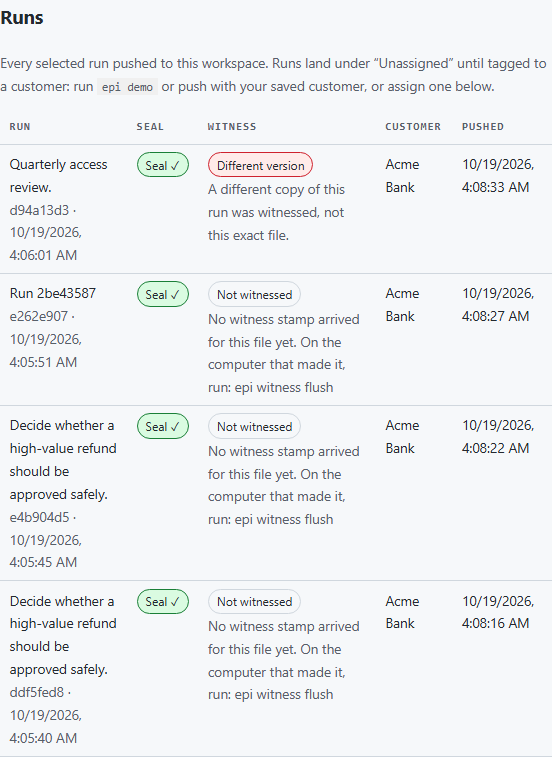
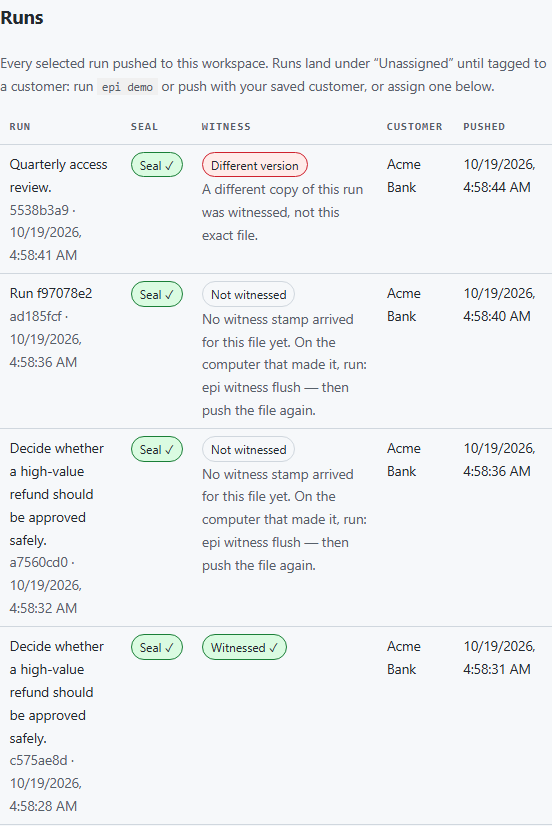
Review fixes: never downgrade witnessed, push-again hint, dark mode, lenient re-push
1. Re-push refresh never downgrades: a stored 'witnessed' verdict is kept when the re-check cannot reach an inbox (test: close inbox, re-push, stays witnessed). 2. 'Not witnessed' hint now ends 'run: epi witness flush - then push the file again' (re-push really refreshes the badge; covered by the refresh test). 3. Dashboard gets a prefers-color-scheme dark theme; after-dark screenshots are genuinely dark. 4. Re-push with an unknown customer name keeps working (200, tag unchanged); unknown names still 400 on first push. 5. Reverts the accidentally committed docs/dashboard-v2/05-dashboard.png. 6. Trust page shows one line for different_version (the red 'Needs review' line stays). Mirrors re-synced (site, verify_portal).

diff --git a/cloud/test/artifacts.test.ts b/cloud/test/artifacts.test.ts
@@ -275,6 +275,15 @@ class FakeD1 {
       for (const r of this.artifacts.values()) if (r.id === a[1]) r.deleted_at = a[0];
       return 1;
     }
+    if (q.startsWith("UPDATE inboxes SET closed_at")) {
+      for (const i of this.inboxes.values()) {
+        if (i.id === a[1] && i.org_id === a[2] && i.closed_at == null) {
+          i.closed_at = a[0];
+          return 1;
+        }
+      }
+      return 0;
+    }
     if (q.startsWith("INSERT INTO agents")) {
       this.agents.set(a[0] as string, { id: a[0], org_id: a[1], name: a[2], status: "active", created_at: a[3] });
       return 1;
@@ -461,6 +470,36 @@ describe("push flow", () => {
     const second = (await (await app.request("/v1/orgs/o1/artifacts/init", { method: "POST", headers: key, body: JSON.stringify(initBody()) }, env as never)).json()) as { id: string; deduped: boolean; witness_status: string };
     expect(second).toMatchObject({ id: first.id, deduped: true, witness_status: "witnessed" });
     expect(db.audit.map((a) => a.action)).toContain("artifact.refresh");
+  });
+
+  it("re-push never downgrades a witnessed run when the inbox is unreachable", async () => {
+    const { db, env, key, ck } = await setup();
+    const stub = (env.WITNESS as unknown as FakeInboxNS).get((env.WITNESS as unknown as FakeInboxNS).idFromName("inb_1"));
+    const manifest = JSON.parse(FIXTURE_MANIFEST) as { workflow_id: string };
+    await stub.fetch("https://inbox/append", {
+      method: "POST", headers: { "Content-Type": "application/json" },
+      body: JSON.stringify({ payload_raw: JSON.stringify({ schema: "epi-witness/v1", type: "epi.sealed", workflow_id: manifest.workflow_id, file_sha256: FILE_SHA }) }),
+    });
+    const first = (await (await app.request("/v1/orgs/o1/artifacts/init", { method: "POST", headers: key, body: JSON.stringify(initBody()) }, env as never)).json()) as { id: string; witness_status: string };
+    expect(first.witness_status).toBe("witnessed");
+    // The inbox closes (or the fetch fails): a re-check reads "not found".
+    // The stored "witnessed" verdict must survive the re-push.
+    const closed = await app.request("/v1/orgs/o1/inboxes/inb_1/close", { method: "POST", headers: ck("sess-owner") }, env as never);
+    expect(closed.status).toBe(200);
+    const second = (await (await app.request("/v1/orgs/o1/artifacts/init", { method: "POST", headers: key, body: JSON.stringify(initBody()) }, env as never)).json()) as { id: string; deduped: boolean; witness_status: string };
+    expect(second).toMatchObject({ id: first.id, deduped: true, witness_status: "witnessed" });
+    expect([...db.artifacts.values()].find((a) => a.id === first.id)!.witness_status).toBe("witnessed");
+  });
+
+  it("re-push with an unknown customer name keeps working and keeps the tag", async () => {
+    const { db, env, key } = await setup();
+    const first = (await (await app.request("/v1/orgs/o1/artifacts/init", { method: "POST", headers: key, body: JSON.stringify(initBody()) }, env as never)).json()) as { id: string; agent: string | null };
+    expect(first.agent).toBe("loans");
+    const second = await app.request("/v1/orgs/o1/artifacts/init", { method: "POST", headers: key, body: JSON.stringify(initBody({ agent: "ghost" })) }, env as never);
+    expect(second.status).toBe(200);
+    const body = (await second.json()) as { id: string; deduped: boolean; agent: string | null };
+    expect(body).toMatchObject({ id: first.id, deduped: true, agent: "loans" });
+    expect([...db.artifacts.values()].find((a) => a.id === first.id)!.agent_id).toBe("g1");
   });
 
   it("dedupes, rejects double-store and length lies", async () => {

diff --git a/cloud/src/routes/artifacts.ts b/cloud/src/routes/artifacts.ts
@@ -117,13 +117,6 @@ app.post("/orgs/:orgId/artifacts/init", async (c) => {
   const fileCount = await c.env.DB.prepare("SELECT COUNT(*) AS n FROM artifacts WHERE org_id = ? AND deleted_at IS NULL").bind(orgId).first<{ n: number }>();
   const room = limitAllows(plan, "evidenceFiles", fileCount?.n ?? 0);
 
-  let agentId: string | null = null;
-  if (body.data.agent) {
-    const agent = await c.env.DB.prepare("SELECT id FROM agents WHERE org_id = ? AND name = ?").bind(orgId, body.data.agent).first<{ id: string }>();
-    if (!agent) return c.json({ error: { code: "bad_request", message: `Unknown agent ${body.data.agent}.` } }, 400);
-    agentId = agent.id;
-  }
-
   const dupe = await c.env.DB.prepare("SELECT id, agent_id, manifest_json, upload_state, witness_status, signature_check FROM artifacts WHERE org_id = ? AND claimed_sha256 = ?")
     .bind(orgId, body.data.claimed_sha256).first<{ id: string; agent_id: string | null; manifest_json: string; upload_state: string; witness_status: string; signature_check: string }>();
   if (dupe) {
@@ -131,7 +124,16 @@ app.post("/orgs/:orgId/artifacts/init", async (c) => {
     // report may have arrived since the first push) and fill in the customer
     // tag only when the stored run has none. An existing tag is never
     // replaced — moving a run between customers would leak it onto another
-    // customer's reviewer link.
+    // customer's reviewer link. An unknown customer name on re-push is
+    // ignored (pre-existing runs keep working); it only 400s on first push.
+    let agentId: string | null = null;
+    if (body.data.agent) {
+      const agent = await c.env.DB.prepare("SELECT id FROM agents WHERE org_id = ? AND name = ?").bind(orgId, body.data.agent).first<{ id: string }>();
+      if (agent) agentId = agent.id;
+    }
+    // Refresh the witness status, but never downgrade: an unreachable or
+    // closed inbox reads as "not found", which must not erase a "witnessed"
+    // verdict for the same bytes.
     let workflowId: string | null = null;
     try {
       const dm = JSON.parse(dupe.manifest_json) as Record<string, unknown>;
@@ -139,7 +141,8 @@ app.post("/orgs/:orgId/artifacts/init", async (c) => {
     } catch {
       // Unreadable manifest: keep the stored status.
     }
-    const status = workflowId ? await witnessStatus(c.env.DB, c.env, orgId, workflowId, body.data.claimed_sha256) : dupe.witness_status;
+    const recomputed = workflowId ? await witnessStatus(c.env.DB, c.env, orgId, workflowId, body.data.claimed_sha256) : dupe.witness_status;
+    const status = dupe.witness_status === "witnessed" ? "witnessed" : recomputed;
     const adopt = !dupe.agent_id && agentId ? agentId : dupe.agent_id;
     if (status !== dupe.witness_status || adopt !== dupe.agent_id) {
       await c.env.DB.prepare("UPDATE artifacts SET agent_id = ?, witness_status = ? WHERE id = ?").bind(adopt, status, dupe.id).run();
@@ -157,6 +160,13 @@ app.post("/orgs/:orgId/artifacts/init", async (c) => {
     });
   }
   if (!room.ok) return c.json({ error: { code: "plan_limit", message: room.message } }, 402);
+
+  let agentId: string | null = null;
+  if (body.data.agent) {
+    const agent = await c.env.DB.prepare("SELECT id FROM agents WHERE org_id = ? AND name = ?").bind(orgId, body.data.agent).first<{ id: string }>();
+    if (!agent) return c.json({ error: { code: "bad_request", message: `Unknown agent ${body.data.agent}.` } }, 400);
+    agentId = agent.id;
+  }
 
   const status = await witnessStatus(c.env.DB, c.env, orgId, typeof manifest.workflow_id === "string" ? manifest.workflow_id : null, body.data.claimed_sha256);
   const now = nowIso();

diff --git a/cloud/src/index.ts b/cloud/src/index.ts
@@ -135,7 +135,7 @@ app.get("/", async (c) => {
     `function witBadge(st){if(st==="witnessed"){return '<span class="pill ok">Witnessed \\u2713</span>';}if(st==="no_inbox"){return '<span class="pill">No inbox</span>';}if(st==="not_in_witness"){return '<span class="pill">Not witnessed</span>';}if(st==="different_version"){return '<span class="pill bad">Different version</span>';}return '<span class="pill">'+esc(st)+'</span>';}`,
     `function runTitle(r){if(r.goal){return esc(r.goal);}var w=String(r.workflow_id||"");if(w){return "Run "+esc(w.slice(0,8));}var h=String(r.claimed_sha256||"");return "Sealed run "+esc((h||String(r.id||"")).slice(0,8));}`,
     `function runSub(r){var h=String(r.claimed_sha256||"");var t=r.sealed_at||r.uploaded_at||"";var s=(h||String(r.id||"")).slice(0,8);return '<div class="small mut">'+esc(s)+(t?" \\u00B7 "+esc(localTime(t)):"")+'</div>';}`,
-    `function witHint(st){if(st==="no_inbox"){return "No customer inbox yet \\u2014 add a customer, then re-push this run.";}if(st==="not_in_witness"){return "No witness stamp arrived for this file yet. On the computer that made it, run: epi witness flush";}if(st==="different_version"){return "A different copy of this run was witnessed, not this exact file.";}return "";}`,
+    `function witHint(st){if(st==="no_inbox"){return "No customer inbox yet \\u2014 add a customer, then re-push this run.";}if(st==="not_in_witness"){return "No witness stamp arrived for this file yet. On the computer that made it, run: epi witness flush \\u2014 then push the file again.";}if(st==="different_version"){return "A different copy of this run was witnessed, not this exact file.";}return "";}`,
     `function witSub(st){var h=witHint(st);return h?'<div class="small mut">'+esc(h)+'</div>':'';}`,
     `function agentName(id){var a=(S.agents||[]).filter(function(x){return x.id===id;})[0];return a?a.name:"";}`,
     `function inboxLabel(id){var b=(S.inboxes||[]).filter(function(x){return x.id===id;})[0];return b?b.customer_label:"";}`,

diff --git a/site/t/app.js b/site/t/app.js
@@ -93,12 +93,29 @@
     }
     document.getElementById('trustKeys').innerHTML = keys; // static-html: built from esc() only
 
-    var files = '';
+    function witLine(f) {
+    var st = f.witness_status;
+    if (st === 'witnessed') {
+      return '<div style="color:var(--ok)">Witnessed \u2713 \u2014 this exact file is in the witness log.</div>';
+    }
+    if (st === 'no_inbox') {
+      return '<div style="color:var(--warn)">Not witnessed \u2014 the vendor has no witness inbox for this yet.</div>';
+    }
+    // different_version already shows the red "Needs review" line below;
+    // a second warning saying the same thing only adds noise.
+    if (st === 'different_version') {
+      return '';
+    }
+    return '<div style="color:var(--warn)">Not witnessed \u2014 no witness stamp arrived for this file yet. Ask the vendor to witness it and re-share.</div>';
+  }
+
+  var files = '';
     (doc.artifacts || []).forEach(function (f, idx) {
       var bad = f.signature_check === 'invalid' || f.witness_status === 'different_version';
       var fileUrl = f && (f.content_url || f.download_url);
       files += '<div class="tier"><h3>' + esc(f.goal || ('Sealed run ' + String(f.claimed_sha256 || '').slice(0, 8))) + '</h3>' +
         '<div style="font-family:var(--mono);font-size:.72rem;color:var(--dim)">sha256 <code class="k">' + esc(f.claimed_sha256) + '</code></div>' +
+        witLine(f) +
         (bad ? '<div style="color:var(--bad)">Needs review: ' + esc(f.signature_check) + ' / ' + esc(f.witness_status) + '</div>' : '') +
         (fileUrl ? '<div style="margin-top:10px"><button type="button" class="btn btn-sec" data-artifact="' + idx + '">Verify these bytes</button> <a href="#" data-dlartifact="' + idx + '" style="font-size:.8rem;color:var(--mut)">Download file</a></div><div class="vresult" role="status" aria-live="polite" style="margin-top:10px;font-size:.82rem"></div>' : '') +
         '</div>';

diff --git a/verify_portal/static/t/app.js b/verify_portal/static/t/app.js
@@ -93,12 +93,29 @@
     }
     document.getElementById('trustKeys').innerHTML = keys; // static-html: built from esc() only
 
-    var files = '';
+    function witLine(f) {
+    var st = f.witness_status;
+    if (st === 'witnessed') {
+      return '<div style="color:var(--ok)">Witnessed \u2713 \u2014 this exact file is in the witness log.</div>';
+    }
+    if (st === 'no_inbox') {
+      return '<div style="color:var(--warn)">Not witnessed \u2014 the vendor has no witness inbox for this yet.</div>';
+    }
+    // different_version already shows the red "Needs review" line below;
+    // a second warning saying the same thing only adds noise.
+    if (st === 'different_version') {
+      return '';
+    }
+    return '<div style="color:var(--warn)">Not witnessed \u2014 no witness stamp arrived for this file yet. Ask the vendor to witness it and re-share.</div>';
+  }
+
+  var files = '';
     (doc.artifacts || []).forEach(function (f, idx) {
       var bad = f.signature_check === 'invalid' || f.witness_status === 'different_version';
       var fileUrl = f && (f.content_url || f.download_url);
       files += '<div class="tier"><h3>' + esc(f.goal || ('Sealed run ' + String(f.claimed_sha256 || '').slice(0, 8))) + '</h3>' +
         '<div style="font-family:var(--mono);font-size:.72rem;color:var(--dim)">sha256 <code class="k">' + esc(f.claimed_sha256) + '</code></div>' +
+        witLine(f) +
         (bad ? '<div style="color:var(--bad)">Needs review: ' + esc(f.signature_check) + ' / ' + esc(f.witness_status) + '</div>' : '') +
         (fileUrl ? '<div style="margin-top:10px"><button type="button" class="btn btn-sec" data-artifact="' + idx + '">Verify these bytes</button> <a href="#" data-dlartifact="' + idx + '" style="font-size:.8rem;color:var(--mut)">Download file</a></div><div class="vresult" role="status" aria-live="polite" style="margin-top:10px;font-size:.82rem"></div>' : '') +
         '</div>';

diff --git a/cloud/src/ui.ts b/cloud/src/ui.ts
@@ -75,6 +75,18 @@ export const SITE_CSS = [
   ".copyrow code{flex:1;min-width:0}",
   "pre.cmd{background:#0D1117;color:#E6EDF3;padding:.8rem 1rem;border-radius:.4rem;overflow-x:auto;max-width:100%;font-size:.82rem;white-space:pre-wrap;overflow-wrap:anywhere;word-break:break-word}",
   "pre.cmd .c{color:#8B949E}",
+  // Dark theme follows the OS setting. Same layout, remapped tokens so
+  // text stays contrast-safe; buttons keep dark text on the light accent.
+  "@media (prefers-color-scheme:dark){:root{color-scheme:dark;",
+  "--bg:#0D1117;--bg-2:#161B22;--bg-3:#0D1117;",
+  "--ink:#F0F6FC;--body:#C9D1D9;--mut:#8B949E;--dim:#8B949E;",
+  "--edge:#30363D;--acc:#3FB950;--acc-hi:#56D364;--acc-bg:#12261A;",
+  "--bad:#F85149;--bad-bg:#3D1113;--warn:#D29922;--warn-bg:#3A2C07;",
+  "--shadow:4px 4px 0 rgba(0,0,0,.5);}",
+  ".btn{color:#0D1117}.tab.active{color:#0D1117}",
+  "input,select{background:#0D1117;color:var(--ink);border-color:var(--edge)}",
+  "code,.val{background:#161B22;color:var(--ink)}",
+  "}",
 ].join("\n");
 
 export function esc(s: string): string {

diff --git a/website/t/app.js b/website/t/app.js
@@ -101,8 +101,10 @@
     if (st === 'no_inbox') {
       return '<div style="color:var(--warn)">Not witnessed \u2014 the vendor has no witness inbox for this yet.</div>';
     }
+    // different_version already shows the red "Needs review" line below;
+    // a second warning saying the same thing only adds noise.
     if (st === 'different_version') {
-      return '<div style="color:var(--warn)">Not witnessed \u2014 a different copy of this run was witnessed, not this file.</div>';
+      return '';
     }
     return '<div style="color:var(--warn)">Not witnessed \u2014 no witness stamp arrived for this file yet. Ask the vendor to witness it and re-share.</div>';
   }
